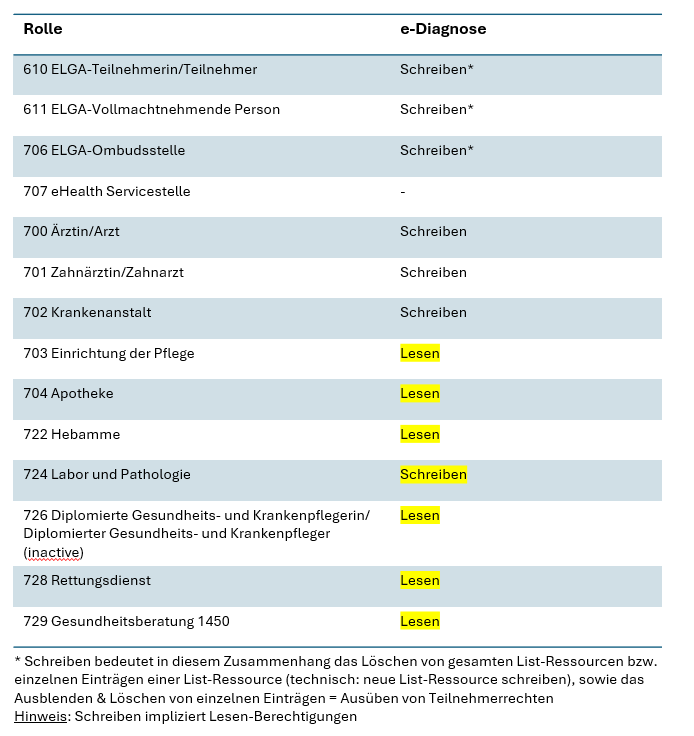
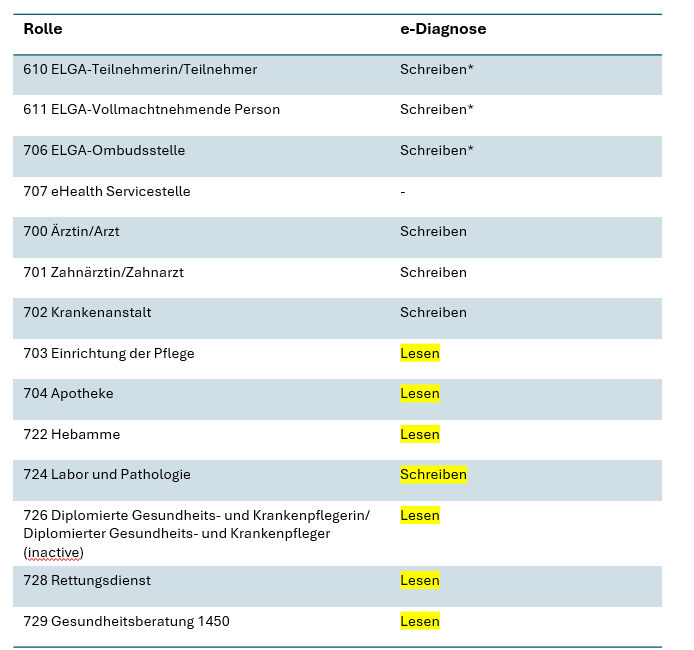
Expand eDiagnose IG with documentation and FHIR profiles

diff --git a/input/pagecontent/background.md b/input/pagecontent/background.md
@@ -1,37 +1,17 @@
 {% include styleheader.md %}
-### Begriffsdefinitionen
-Im Rahmen der Anwendung eDiagnose werden folgenden Begriffe definiert:
 
-- Einträge: Alle vom GDA erfassten medizinischen Informationen, insbesondere Diagnosen (Condition), Prozeduren (Procedure) sowie Allergien und Intoleranzen (AllergyIntolerance).
-
-- Summary-Einträge: Eine Teilmenge der Einträge, die vom GDA als besonders wichtig für die weitere Behandlung bzw. für den nächsten GDA eingestuft werden.
-
-- Gesamtansicht: Zeigt alle Einträge der jeweiligen Kategorie (Diagnosen, Prozeduren oder Allergien und Intoleranzen).
-
-- Summary-Liste: Enthält ausschließlich die als Summary-Einträge gekennzeichneten Einträge der jeweiligen Kategorie.
+Die strukturierte Dokumentation und der Austausch von Conditions, Procedures und AllergiesIntolerances sind eine wesentliche Grundlage für die medizinische Versorgung. Die e-Diagnose soll diese Informationen übergreifend in ELGA verfügbar machen und damit eine gesamthafte Übersicht über den Gesundheitszustand sowie die weitere Behandlung unterstützen. Zudem soll sie die Grundlage für die Austrian Patient Summary (APS) schaffen.
 
 
+### Fachliches Umfeld & Datenkategorien
+Die IPS unterscheidet mehrere Datenkategorien. Diese werden im Rahmen der Konzeption der e-Diagnose berücksichtigt, insbesondere im Hinblick auf die spätere Verwendung der Daten für die APS.
 
-### Systemumfeld
-Das Systemumfeld der e-Diagnose umfasst alle Akteur:innen, Systeme und organisatorischen Einheiten, die im Rahmen der Dokumentation, Einsichtnahme oder Nutzung der gespeicherten Conditions, Procedures und AllergiesIntolerances eingebunden sind. 
+| IPS-Datenkategorie | Berücksichtigte Daten | Verwendung in der eDiagnose |
+|---|---|---|
+| **Problem List** | Conditions | Condition-Summary |
+| **History of Past Problems** | Conditions | Condition-Einträge |
+| **History of Procedures** | Procedures | Procedure-Einträge |
+| **Allergies and Intolerances** | Allergies / Intolerances | Allergy-/Intolerance-Einträge |
 
-[![diagram](ediag_systemumfeld.png){: style="width: 80%"}](ediag_systemumfeld.png)
-
-Im Fokus der e-Diagnose steht der:die ELGA-Teilnehmer:in und dessen:deren Gesamtheit der dokumentierten Conditions, Procedures und AllergiesIntolerances, welche von GDA festgestellt werden und die interdisziplinäre Zusammenarbeit des Behandlungsteams unterstützen soll, um so einen bestmöglichen Outcome für den:die ELGA-Teilnehmer:in zu ermöglichen. 
-
-Der Zugriff von ELGA-Teilnehmer:innen und deren Vertretungen auf die e-Diagnose erfolgt über das Gesundheitsportal unter Nutzung der bestehenden Identifikationsmechanismen. ELGA-Teilnehmer:innen können Einsicht in ihre gespeicherten Daten nehmen sowie Teilnehmer:innenrechte wahrnehmen. Eine direkte medizinische Dokumentation durch ELGA-Teilnehmer:innen und deren Vertretungen ist nicht vorgesehen. 
-
-Die Einsichtnahme in die e-Diagnose sowie die Wahrnehmung von Teilnehmer:innenrechten kann auch durch gesetzlich oder rechtswirksam bevollmächtigte Vertretungsbefugte (Vertretung) im Rahmen der jeweils geltenden rechtlichen Bestimmungen erfolgen. Der Zugriff erfolgt dabei – analog zu ELGA-Teilnehmer:innen – über das Gesundheitsportal unter Nutzung der bestehenden Identifikationsmechanismen. 
-
-GDA dokumentieren und nutzen die Inhalte der e-Diagnose im Rahmen eines aktiven Behandlungsverhältnisses. Die Conditions, Procedures, Alerts/Flags und AllergiesIntolerances werden von GDA dokumentiert und stehen auch allen weiteren behandelnden/berechtigten GDA zur Verfügung.
-
-Der Zugriff erfolgt primär über angebundene Primärsysteme (z.B.: AIS/KIS, etc.) oder alternativ über das GDA-Portal. Die Authentifizierung und Autorisierung erfolgen gemäß GTelG 2012 unter Nutzung des bestehenden ELGA-Berechtigungssystems. Der Zugriff ist ausschließlich im Rahmen eines aktiven Behandlungsverhältnisses zulässig. Perspektivisch ist sicherzustellen, dass die e-Diagnose allen Berufsgruppen zugänglich gemacht wird, für welche dies nach berufsrechtlichen und datenschutzrechtlichen Vorgaben zulässig und geboten ist.
-
-Zur organisatorischen Unterstützung bestehen als Teile der ELGA und e-Health Supporteinrichtung die ELGA-Ombudsstelle (OBST), die Widerspruchstelle (WIST) sowie die Serviceline (SEL).: 
-
-- OBST: Zur Wahrung der Teilnehmerrechte für ELGA-Teilnehmer:innen und deren Vertretungen. 
-
-- WIST: Zum Einbringen von Opt-Out bzw. GDA-Sperren für ELGA-Teilnehmer:innen und deren Vertretungen (ohne Verwendung des ELGA-Portals). 
-
-- SEL: Für Fragen und Auskünfte von ELGA-Teilnehmer:innen und deren Vertretungen (Nutzung) und GDA (Nutzung und Anbindung an ELGA). Die SEL hat keinen Zugriff auf Gesundheitsdaten der ELGA-Teilnehmer:innen, unterstützt allerdings in Verwendung der Systeme – beispielsweise indem die Verfügbarkeit von Systemen überprüft wird. 
+[![diagram](ediag_ips.png){: style="width: 60%"}](ediag_ips.png)
 

diff --git a/input/pagecontent/scope_and_content.md b/input/pagecontent/scope_and_content.md
@@ -1,3 +1,53 @@
 {% include styleheader.md %}
 
-In Arbeit.
+### Begriffsdefinitionen
+Im Rahmen der Anwendung e-Diagnose werden folgenden Begriffe definiert:
+
+- **Einträge**: Alle vom GDA erfassten medizinischen Informationen. Folgende Arten von Einträgen können erfasst werden:  
+
+    - Conditions („Diagnosen“) 
+
+    - Procedures („Prozeduren“) 
+
+    - AllergiesIntolerances („Allergien und Intoleranzen“) 
+
+- **Summary-Einträge**: Eine Teilmenge der Einträge, die vom GDA als besonders wichtig für die weitere Behandlung bzw. für den nächsten GDA eingestuft werden.
+
+- **Gesamtansicht**: Zeigt alle Einträge der jeweiligen Kategorie (Diagnosen, Prozeduren oder Allergien und Intoleranzen). Die Darstellung erfolgt standardmäßig absteigend nach Datum. Eine alternative oder erweiterte Darstellung kann clientseitig erfolgen. 
+
+- **Summary-Liste**: Enthält ausschließlich die als Summary-Einträge gekennzeichneten Einträge der jeweiligen Kategorie. Eine manuelle Sortierung der einzelnen Summary-Einträge innerhalb der jeweiligen Liste ist möglich. 
+
+[![diagram](ediag_kategorie.png){: style="width: 60%"}](ediag_kategorie.png)
+
+### Systemumfeld
+Das Systemumfeld der e-Diagnose umfasst alle Akteur:innen, Systeme und organisatorischen Einheiten, die im Rahmen der Dokumentation, Einsichtnahme oder Nutzung der gespeicherten Conditions, Procedures und AllergiesIntolerances eingebunden sind. 
+
+[![diagram](ediag_systemumfeld.png){: style="width: 80%"}](ediag_systemumfeld.png)
+
+Im Fokus der e-Diagnose steht der:die ELGA-Teilnehmer:in und dessen:deren Gesamtheit der dokumentierten Conditions, Procedures und AllergiesIntolerances, welche von GDA festgestellt werden und die interdisziplinäre Zusammenarbeit des Behandlungsteams unterstützen soll, um so einen bestmöglichen Outcome für den:die ELGA-Teilnehmer:in zu ermöglichen. 
+
+Der Zugriff von ELGA-Teilnehmer:innen und deren Vertretungen auf die e-Diagnose erfolgt über das Gesundheitsportal unter Nutzung der bestehenden Identifikationsmechanismen. ELGA-Teilnehmer:innen können Einsicht in ihre gespeicherten Daten nehmen sowie Teilnehmer:innenrechte wahrnehmen. Eine direkte medizinische Dokumentation durch ELGA-Teilnehmer:innen und deren Vertretungen ist nicht vorgesehen. 
+
+Die Einsichtnahme in die e-Diagnose sowie die Wahrnehmung von Teilnehmer:innenrechten kann auch durch gesetzlich oder rechtswirksam bevollmächtigte Vertretungsbefugte (Vertretung) im Rahmen der jeweils geltenden rechtlichen Bestimmungen erfolgen. Der Zugriff erfolgt dabei – analog zu ELGA-Teilnehmer:innen – über das Gesundheitsportal unter Nutzung der bestehenden Identifikationsmechanismen. 
+
+GDA dokumentieren und nutzen die Inhalte der e-Diagnose im Rahmen eines aktiven Behandlungsverhältnisses. Die Conditions, Procedures, Alerts/Flags und AllergiesIntolerances werden von GDA dokumentiert und stehen auch allen weiteren behandelnden/berechtigten GDA zur Verfügung.
+
+Der Zugriff erfolgt primär über angebundene Primärsysteme (z.B.: AIS/KIS, etc.) oder alternativ über das GDA-Portal. Die Authentifizierung und Autorisierung erfolgen gemäß GTelG 2012 unter Nutzung des bestehenden ELGA-Berechtigungssystems. Der Zugriff ist ausschließlich im Rahmen eines aktiven Behandlungsverhältnisses zulässig. Perspektivisch ist sicherzustellen, dass die e-Diagnose allen Berufsgruppen zugänglich gemacht wird, für welche dies nach berufsrechtlichen und datenschutzrechtlichen Vorgaben zulässig und geboten ist.
+
+Zur organisatorischen Unterstützung bestehen als Teile der ELGA und e-Health Supporteinrichtung die ELGA-Ombudsstelle (OBST), die Widerspruchstelle (WIST) sowie die Serviceline (SEL).: 
+
+- OBST: Zur Wahrung der Teilnehmerrechte für ELGA-Teilnehmer:innen und deren Vertretungen. 
+
+- WIST: Zum Einbringen von Opt-Out bzw. GDA-Sperren für ELGA-Teilnehmer:innen und deren Vertretungen (ohne Verwendung des ELGA-Portals). 
+
+- SEL: Für Fragen und Auskünfte von ELGA-Teilnehmer:innen und deren Vertretungen (Nutzung) und GDA (Nutzung und Anbindung an ELGA). Die SEL hat keinen Zugriff auf Gesundheitsdaten der ELGA-Teilnehmer:innen, unterstützt allerdings in Verwendung der Systeme – beispielsweise indem die Verfügbarkeit von Systemen überprüft wird. 
+
+### Diagnosencodierung
+Die Erfassung der Daten erfolgt dabei strukturiert und standardisiert auf Basis von HL7 FHIR sowie SNOMED CT. 
+
+[![diagram](ediag_datenwege.png){: style="width: 60%"}](ediag_datenwege.png)
+
+Unterstützt durch das e-Health-Codierservice kann parallel die Dokumentation gemäß Bundesgesetz über die Dokumentation im Gesundheitswesen (DokuG) gegenüber der Sozialversicherung (SV) und dem BMASGPK abgewickelt werden. 
+
+
+

diff --git a/input/pagecontent/index.md b/input/pagecontent/index.md
@@ -7,6 +7,6 @@ Mit der **e-Diagnose** wird der Informationsaustausch zu Diagnosen, Prozeduren, 
 
 Die Anwendung bietet eine **vollständige, gemeinsame Dokumentation in ELGA** und bildet gleichzeitig die **Grundlage für die Patient Summary**.
 
-Die technische Umsetzung der eDiagnose erfolgt auf Basis des HL7® FHIR®-Standards, um eine nachhaltige, interoperable und kosteneffiziente Lösung zu gewährleisten. Die vorliegende Implementierung leistet einen Beitrag zur Weiterentwicklung sowohl der österreichischen eHealth-Strategie als auch der Anforderungen des European Health Data Space (EHDS). In Anbetracht der ab 2029 vorgesehenen Sekundärnutzung medizinischer Daten im EHDS werden durch diesen Implementation Guide die technischen Grundlagen geschaffen, um eine datenschutzkonforme Nutzung strukturierter klinischer Informationen – insbesondere Diagnosen, Prozeduren, Allergien und Intoerlanzen – für gemeinwohlorientierte Forschung, Qualitätssicherung und gesundheitspolitische Steuerung zu ermöglichen.
+Die technische Umsetzung der eDiagnose erfolgt auf Basis des HL7® FHIR®-Standards, um eine nachhaltige, interoperable und kosteneffiziente Lösung zu gewährleisten. Die vorliegende Implementierung leistet einen Beitrag zur Weiterentwicklung sowohl der österreichischen eHealth-Strategie als auch der Anforderungen des European Health Data Space (EHDS). In Anbetracht der ab 2029 vorgesehenen Sekundärnutzung medizinischer Daten im EHDS werden durch diesen Implementation Guide die technischen Grundlagen geschaffen, um eine datenschutzkonforme Nutzung strukturierter klinischer Informationen – insbesondere Diagnosen, Prozeduren, Allergien und Intoleranzen – für gemeinwohlorientierte Forschung, Qualitätssicherung und gesundheitspolitische Steuerung zu ermöglichen.
 
 Der Implementation Guide umfasst zudem die Definition der FHIR-APIs für die Integration der eDiagnose in die ELGA-Infrastruktur sowie den standardisierten Austausch, die Speicherung und die Verarbeitung von Diagnosen, Prozeduren, Allergien und Intoleranzen zwischen den beteiligten Gesundheitssystemen. Dadurch wird eine semantisch interoperable und sektorenübergreifende Verfügbarkeit dieser Informationen unterstützt.

diff --git a/input/pagecontent/actors.md b/input/pagecontent/actors.md
@@ -1,18 +1,14 @@
 {% include styleheader.md %}
 
-Das Kapitel gibt einen Überblick über die zentralen Anwendungsfälle der e-Diagnose und zeigt, wie die verschiedenen Akteure mit den Funktionen interagieren. 
+Dieses Kapitel gibt einen Überblick über die beteiligten Akteure und beschreibt deren Berechtigungen. Dabei wird dargestellt, welche Rollen zum Lesen bzw. Schreiben der Informationen berechtigt sind.
 
-Weiters werden in einer Tabelle alle ELGA Rollen angeführt, die Zugriff auf die Summary-Liste(n) und die Einträge erhalten sollen. 
-
-### Use Case Diagramm
-
-<br>
-
-[![diagram](ediag_uc_diagramm.drawio.png){: style="width: 60%"}](ediag_uc_diagramm.drawio.png)
-
-<br clear="all"/>
 
 ### Rollen und Berechtigungen
 
 [![tabelle](ediag_zugriffsmatrix.png){: style="width: 60%"}](ediag_zugriffsmatrix.png)
+ 
+\* Das Schreiben umfasst in diesem Zusammenhang auch das Ausüben von Teilnehmerrechten, insbesondere das Löschen ganzer Summary-Listenversionen ([Eine Summary-Listenversion löschen](uc_ediag_03_teilnehmer.md#eine-summary-listenversion-löschen)) bzw. einzelner Einträge ([Eintrag löschen](uc_ediag_03_teilnehmer.md#eintrag-löschen).
+
+
+
 

diff --git a/input/pagecontent/uc_ediag_02_schreiben.md b/input/pagecontent/uc_ediag_02_schreiben.md
@@ -187,7 +187,7 @@ Der GDA kann die Reihenfolge der Einträge innerhalb einer Summary-Liste ändern
 ### Einträge in der Summary-Liste bearbeiten
 > Sub:UC_02_08 
 <br> 
-Dieser Sub-UC beschreibt die fachliche Bearbeitung von Einträgen einer Summary-Liste. Die tatsächliche Reihenfolge der Bearbeitungsschritte kann je nach Anwendungsfall variieren. Es ist nicht notwendigerweise vorgesehen, dass $list-read am Anfang und $list-write am Ende des Ablaufs stehen.
+Dieser Sub-UC beschreibt die fachliche Bearbeitung von Einträgen einer Summary-Liste. Die tatsächliche Reihenfolge der Bearbeitungsschritte kann je nach Anwendungsfall variieren. Ein berechtigter GDA kann alle bestehenden (eigene und fremde) Einträge bearbeiten. Es ist nicht notwendigerweise vorgesehen, dass $list-read am Anfang und $list-write am Ende des Ablaufs stehen.
 Durch die Verwendung eines bereits bestehenden Business-Identifier wird bei der Bearbeitung die Zuordnung einer alten Version zu einer neuen Version einer Ressource ermöglicht. Dadurch bleibt die Verbindung zwischen den Versionen erhalten.
 
 <!--Bestehende Einträge fachlich bearbeiten 

diff --git a/input/pagecontent/technische_use_cases.md b/input/pagecontent/technische_use_cases.md
@@ -7,7 +7,6 @@ Die e-Diagnose dient der Verwaltung von Diagnosen, Prozeduren sowie Allergien un
 Vor der Durchführung von Änderungen werden die aktuellen Datenbestände geladen. Anschließend können Listen bearbeitet sowie fachliche Einzelressourcen (z. B. Condition, Procedure, AllergyIntolerance) erfasst, geändert, storniert oder gelöscht werden.
 Die folgende Darstellung gibt einen Überblick über die in der e-Diagnose verwalteten Kategorien sowie deren Zuordnung auf den jeweiligen Listen- und Einzelressourcenebene.
 
-[![diagram](ediag_kategorie.png){: style="width: 60%"}](ediag_kategorie.png)
 
 Die nachfolgend beschriebenen Sub-Use-Cases definieren die erforderlichen Interaktionen und Transaktionen zur Umsetzung dieser fachlichen Funktionen. Sie basieren auf den folgenden Interaktionsarten:
 
@@ -15,7 +14,7 @@ Die nachfolgend beschriebenen Sub-Use-Cases definieren die erforderlichen Intera
 - [Schreiben](uc_ediag_02_schreiben.html)
 - [Teilnehmerrechte ausüben](uc_ediag_03_teilnehmer.html)
 
-
+[![diagram](ediag_uc_diagramm.drawio.png){: style="width: 60%"}](ediag_uc_diagramm.drawio.png)
 
 
 

diff --git a/input/pagecontent/StructureDefinition-at-elga-ediag-list-intro.md b/input/pagecontent/StructureDefinition-at-elga-ediag-list-intro.md
@@ -1,0 +1,4 @@
+### Defintion
+Die Liste ist ein zentraler Teil der e-Diagnose und umfasst sämtliche Conditions, Procedures oder AllergiesIntolerances-Einträge die durch eine:n GDA als relevant gekennzeichnet wurden. 
+Sie dient der priorisierten Darstellung aktuell versorgungsrelevanter Summary-Einträge und bildet die fachliche Grundlage für die strukturierte Verwendung in der e-Diagnose und Weiterverwendung in nachgelagerten Anwendungen (z.B.: APS). 
+Eine manuelle Sortierung der Einträge in den jeweiligen Listen ist möglich. Die vorgenommene Sortierung wird in der e-Diagnose gespeichert und ist somit für alle anderen Zugriffsberechtigte sichtbar.

diff --git a/input/pagecontent/StructureDefinition-at-elga-ediag-condition-intro.md b/input/pagecontent/StructureDefinition-at-elga-ediag-condition-intro.md
@@ -1,2 +1,2 @@
-### Content
+### Defintion
 Dokumentiert Diagnosen und klinisch relevante Gesundheitszustände einer Person, einschließlich Erkrankungen, Symptome, allgemeiner Zustandsbeschreibungen (Findings), familiärer Vorbelastungen sowie sonstiger gesundheitlich relevanter Probleme oder Risiken. Sie bildet eine fachliche Feststellung zu einem Gesundheitsaspekt ab und kann sowohl aktuelle als auch vergangene Zustände umfassen. 

diff --git a/input/pagecontent/StructureDefinition-at-elga-ediag-allergyintolerance-intro.md b/input/pagecontent/StructureDefinition-at-elga-ediag-allergyintolerance-intro.md
@@ -1,0 +1,2 @@
+### Defintion
+AllergyIntolerance dient der Dokumentation einer klinischen Einschätzung einer Allergie oder Intoleranz sowie einer bestehenden oder potenziellen Überempfindlichkeit gegenüber einer bestimmten Substanz oder Substanzklasse und des damit verbundenen Risikos einer unerwünschten Reaktion bei Exposition. 

diff --git a/input/pagecontent/StructureDefinition-at-elga-ediag-procedure-intro.md b/input/pagecontent/StructureDefinition-at-elga-ediag-procedure-intro.md
@@ -1,0 +1,2 @@
+### Defintion
+Eine Procedure beschreibt eine durchgeführte medizinische Maßnahme, Intervention oder einen operativen Eingriff. Sie dokumentiert zusammenfassend das Stattfinden einer Maßnahme. 
